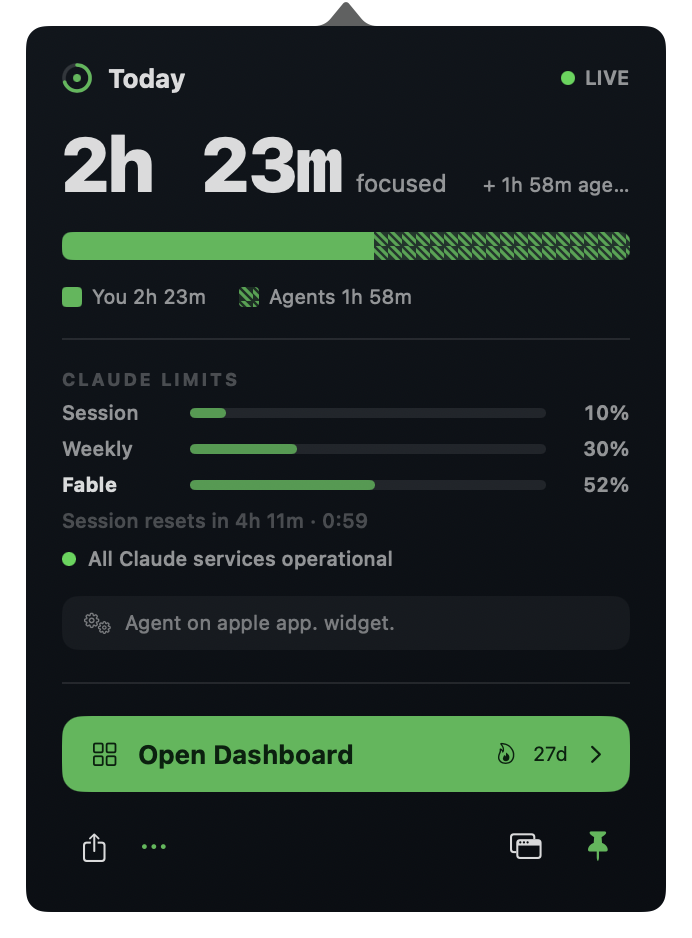
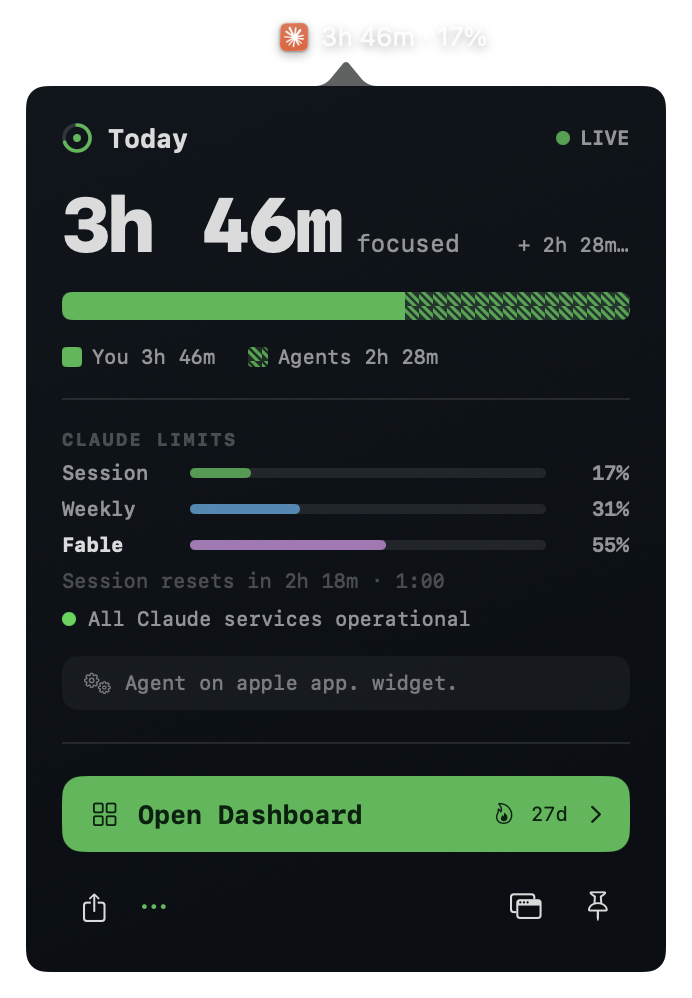
Design match v2: full terminal voice in the app
- Monospaced type app-wide (all roots), not just numerals — the site's JetBrains-Mono
  voice via the system mono design.
- "$ lockedin --<tab>" prompt line above every dashboard title; blinking block cursor
  after the hero number; faint green 44pt grid behind the dashboard (site's grid-bg).
- Pulsing live dots (popover badge + widget header), same rhythm as the site.
- Per-limit meter colors matching the site's cards: Session green, Weekly blue,
  Fable/model-scoped purple (orange/red still override near the cap) — applied in
  popover, widget, and dashboard.
- Fresh screenshots + tour.gif.

diff --git a/Sources/LockedIn/Theme.swift b/Sources/LockedIn/Theme.swift
@@ -29,6 +29,62 @@ enum Theme {
 
     static let cardRadius: CGFloat = 16
     static let barHeight: CGFloat = 14
+
+    /// Per-limit meter colors, same mapping as the website's limit cards.
+    static func limitColor(_ label: String, percent: Double) -> Color {
+        if percent >= 90 { return .red }
+        if percent >= 80 { return .orange }
+        switch label.lowercased() {
+        case "weekly": return blue
+        case "session": return accent
+        default: return purple    // model-scoped (Fable, …)
+        }
+    }
+
+    /// Faint green grid, like the website's grid-bg (44pt cells).
+    static let gridImage: Image = {
+        let size = NSSize(width: 44, height: 44)
+        let img = NSImage(size: size)
+        img.lockFocus()
+        NSColor(red: 0.247, green: 0.725, blue: 0.314, alpha: 0.045).setStroke()
+        let path = NSBezierPath()
+        path.lineWidth = 1
+        path.move(to: NSPoint(x: 0.5, y: 0)); path.line(to: NSPoint(x: 0.5, y: 44))
+        path.move(to: NSPoint(x: 0, y: 43.5)); path.line(to: NSPoint(x: 44, y: 43.5))
+        path.stroke()
+        img.unlockFocus()
+        img.resizingMode = .tile
+        return Image(nsImage: img)
+    }()
+}
+
+/// The website's pulsing "live" dot.
+struct PulsingDot: View {
+    var color: Color = Theme.accent
+    var size: CGFloat = 7
+    var active = true
+    @State private var dim = false
+    var body: some View {
+        Circle().fill(active ? color : Color.secondary)
+            .frame(width: size, height: size)
+            .opacity(active && dim ? 0.2 : 1)
+            .animation(active ? .easeInOut(duration: 0.8).repeatForever(autoreverses: true) : .default, value: dim)
+            .onAppear { dim = true }
+    }
+}
+
+/// The website's blinking block cursor.
+struct BlinkingCursor: View {
+    var width: CGFloat = 10
+    var height: CGFloat = 30
+    @State private var on = true
+    var body: some View {
+        Rectangle().fill(Theme.accent)
+            .frame(width: width, height: height)
+            .opacity(on ? 1 : 0)
+            .animation(.easeInOut(duration: 0.55).repeatForever(autoreverses: true), value: on)
+            .onAppear { on = false }
+    }
 }
 
 /// The brand mark — "Ring Spark": a progress ring frozen at 70% with a center dot.

diff --git a/Sources/LockedIn/DashboardView.swift b/Sources/LockedIn/DashboardView.swift
@@ -47,7 +47,14 @@ struct DashboardView: View {
             ScrollView { content.padding(24) }
                 .frame(maxWidth: .infinity, maxHeight: .infinity)
         }
-        .background(Theme.background)
+        .background(
+            ZStack {
+                Theme.background
+                Rectangle().fill(ImagePaint(image: Theme.gridImage, scale: 1))
+            }
+            .ignoresSafeArea()
+        )
+        .fontDesign(.monospaced)
         .environment(\.colorScheme, .dark)   // always dark — the console surface is the brand
         .tint(Theme.accent)
         .frame(minWidth: 860, minHeight: 600)
@@ -170,11 +177,15 @@ private struct DashboardTab: View {
     var body: some View {
         let d = tracker.today
         VStack(alignment: .leading, spacing: 22) {
-            Text("Dashboard").font(.largeTitle.weight(.bold))
+            VStack(alignment: .leading, spacing: 3) {
+                Text(verbatim: "$ lockedin --dashboard").font(.caption).foregroundStyle(Theme.accent)
+                Text("Dashboard").font(.largeTitle.weight(.bold))
+            }
 
             // Hero — your focused time; agents are a separate stat.
             HStack(alignment: .firstTextBaseline, spacing: 10) {
                 Text(d.humanTotal.hoursCompact).font(.system(size: 52, weight: .black, design: .monospaced))
+                BlinkingCursor(width: 11, height: 34)
                 Text("focused today")
                     .foregroundStyle(.secondary)
                 if d.agentTotal > 0 {
@@ -268,7 +279,10 @@ private struct ProjectsTab: View {
 
     var body: some View {
         VStack(alignment: .leading, spacing: 18) {
-            Text("Projects").font(.largeTitle.weight(.bold))
+            VStack(alignment: .leading, spacing: 3) {
+                Text(verbatim: "$ lockedin --projects").font(.caption).foregroundStyle(Theme.accent)
+                Text("Projects").font(.largeTitle.weight(.bold))
+            }
             Text("Every project you've worked on — click one to see its details.")
                 .foregroundStyle(.secondary)
 
@@ -398,7 +412,10 @@ private struct AgentsTab: View {
     var body: some View {
         let mix = tracker.today.tokensByModel.sorted { $0.value.total > $1.value.total }
         VStack(alignment: .leading, spacing: 18) {
-            Text("Agents & Tokens").font(.largeTitle.weight(.bold))
+            VStack(alignment: .leading, spacing: 3) {
+                Text(verbatim: "$ lockedin --agents").font(.caption).foregroundStyle(Theme.accent)
+                Text("Agents & Tokens").font(.largeTitle.weight(.bold))
+            }
 
             HStack(spacing: 24) {
                 bigStat("\(tracker.today.tokenTotal.total.tokensCompact)", "tokens today")
@@ -439,7 +456,10 @@ private struct SettingsTab: View {
 
     var body: some View {
         VStack(alignment: .leading, spacing: 22) {
-            Text("Settings").font(.largeTitle.weight(.bold))
+            VStack(alignment: .leading, spacing: 3) {
+                Text(verbatim: "$ lockedin --settings").font(.caption).foregroundStyle(Theme.accent)
+                Text("Settings").font(.largeTitle.weight(.bold))
+            }
 
             section("Time tracking") {
                 Picker("Count focus when", selection: Binding(
@@ -858,7 +878,7 @@ private struct UsageSection: View {
                 }
             }
             ProgressView(value: min(limit.percent / 100, 1))
-                .tint(limit.percent >= 90 ? .red : limit.percent >= 70 ? .orange : Theme.accent)
+                .tint(Theme.limitColor(limit.label, percent: limit.percent))
             HStack {
                 Text("\(Int(limit.percent))% used").font(.caption2).foregroundStyle(.secondary)
                 if let r = limit.resetsAt {
@@ -1092,7 +1112,10 @@ private struct CalendarTab: View {
 
     var body: some View {
         VStack(alignment: .leading, spacing: 18) {
-            Text("Calendar").font(.largeTitle.weight(.bold))
+            VStack(alignment: .leading, spacing: 3) {
+                Text(verbatim: "$ lockedin --calendar").font(.caption).foregroundStyle(Theme.accent)
+                Text("Calendar").font(.largeTitle.weight(.bold))
+            }
             Text("Your focus over time — each square is a day, brighter means more work. Hover for details.")
                 .foregroundStyle(.secondary)
 
@@ -1250,7 +1273,10 @@ private struct ReportsTab: View {
 
     var body: some View {
         VStack(alignment: .leading, spacing: 18) {
-            Text("Reports").font(.largeTitle.weight(.bold))
+            VStack(alignment: .leading, spacing: 3) {
+                Text(verbatim: "$ lockedin --reports").font(.caption).foregroundStyle(Theme.accent)
+                Text("Reports").font(.largeTitle.weight(.bold))
+            }
             Text("All-time totals and a CSV export for invoicing or analysis.")
                 .foregroundStyle(.secondary)
 

diff --git a/Sources/LockedIn/DesktopWidgetView.swift b/Sources/LockedIn/DesktopWidgetView.swift
@@ -17,6 +17,7 @@ struct DesktopWidgetView: View {
         }
         .frame(width: size.width)
         .background(Theme.background.opacity(0.94))   // brand surface over the window blur
+        .fontDesign(.monospaced)
         .environment(\.colorScheme, .dark)
         .tint(Theme.accent)
         .contentShape(Rectangle())
@@ -183,7 +184,7 @@ struct DesktopWidgetView: View {
     /// A refined limit bar: label, a colored capsule that warns as it fills, and the %.
     private func usageBar(_ limit: UsageLimit) -> some View {
         let pct = limit.percent
-        let fill: Color = pct >= 90 ? .red : pct >= 70 ? .orange : Theme.accent
+        let fill = Theme.limitColor(limit.label, percent: pct)
         return HStack(spacing: 9) {
             Text(limit.label).font(.caption.weight(limit.active ? .bold : .semibold))
                 .foregroundStyle(limit.active ? .primary : .secondary)
@@ -269,7 +270,7 @@ struct DesktopWidgetView: View {
             .help("Open Dashboard")
             Spacer()
             if tracker.editorConnected || !tracker.activeSessions.isEmpty || tracker.humanActiveNow {
-                Circle().fill(.green).frame(width: 7, height: 7)
+                PulsingDot()
             }
             controls
         }

diff --git a/Sources/LockedIn/PopoverView.swift b/Sources/LockedIn/PopoverView.swift
@@ -19,6 +19,7 @@ struct PopoverView: View {
         .padding(18)
         .frame(width: 320)
         .background(Theme.background)
+        .fontDesign(.monospaced)
         .environment(\.colorScheme, .dark)
         .tint(Theme.accent)
         .sheet(isPresented: $showShareSheet) {
@@ -145,7 +146,7 @@ private struct PassiveView: View {
     /// A compact Claude-usage limit row: label, a capsule that warns as it fills, percent.
     private func usageRow(_ limit: UsageLimit) -> some View {
         let pct = limit.percent
-        let fill: Color = pct >= 90 ? .red : pct >= 70 ? .orange : Theme.accent
+        let fill = Theme.limitColor(limit.label, percent: pct)
         return HStack(spacing: 8) {
             Text(limit.label).font(.caption2.weight(limit.active ? .bold : .medium))
                 .foregroundStyle(limit.active ? .primary : .secondary)
@@ -247,7 +248,7 @@ private struct LiveBadge: View {
     let active: Bool
     var body: some View {
         HStack(spacing: 5) {
-            Circle().fill(active ? Color.green : Color.secondary).frame(width: 7, height: 7)
+            PulsingDot(active: active)
             Text(active ? "LIVE" : "IDLE").font(.caption2.weight(.semibold)).foregroundStyle(.secondary)
         }
     }

diff --git a/Sources/LockedIn/OnboardingWindow.swift b/Sources/LockedIn/OnboardingWindow.swift
@@ -100,6 +100,7 @@ struct OnboardingView: View {
         .padding(26)
         .frame(width: 460)
         .background(Theme.background)
+        .fontDesign(.monospaced)
         .environment(\.colorScheme, .dark)
         .tint(Theme.accent)
     }

diff --git a/Sources/LockedIn/ShareCard.swift b/Sources/LockedIn/ShareCard.swift
@@ -58,6 +58,7 @@ struct ShareCard: View {
             RoundedRectangle(cornerRadius: 20, style: .continuous)
                 .strokeBorder(Color.white.opacity(0.12), lineWidth: 1)
         )
+        .fontDesign(.monospaced)
         .environment(\.colorScheme, .dark)
     }
 